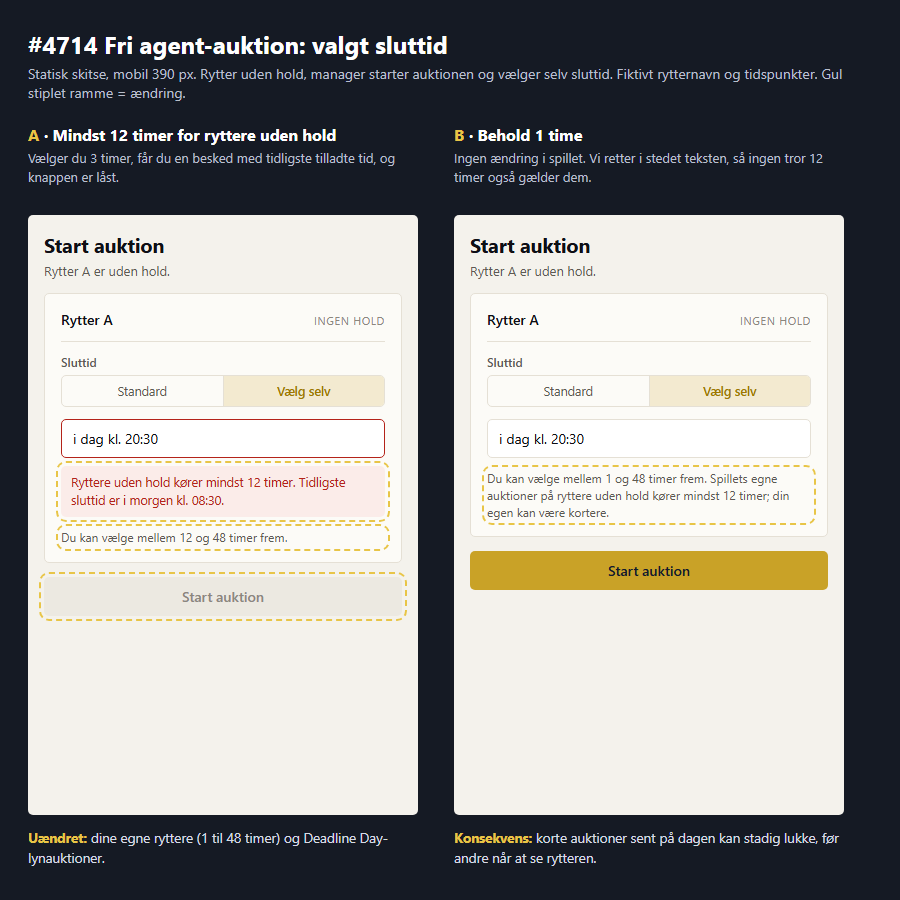
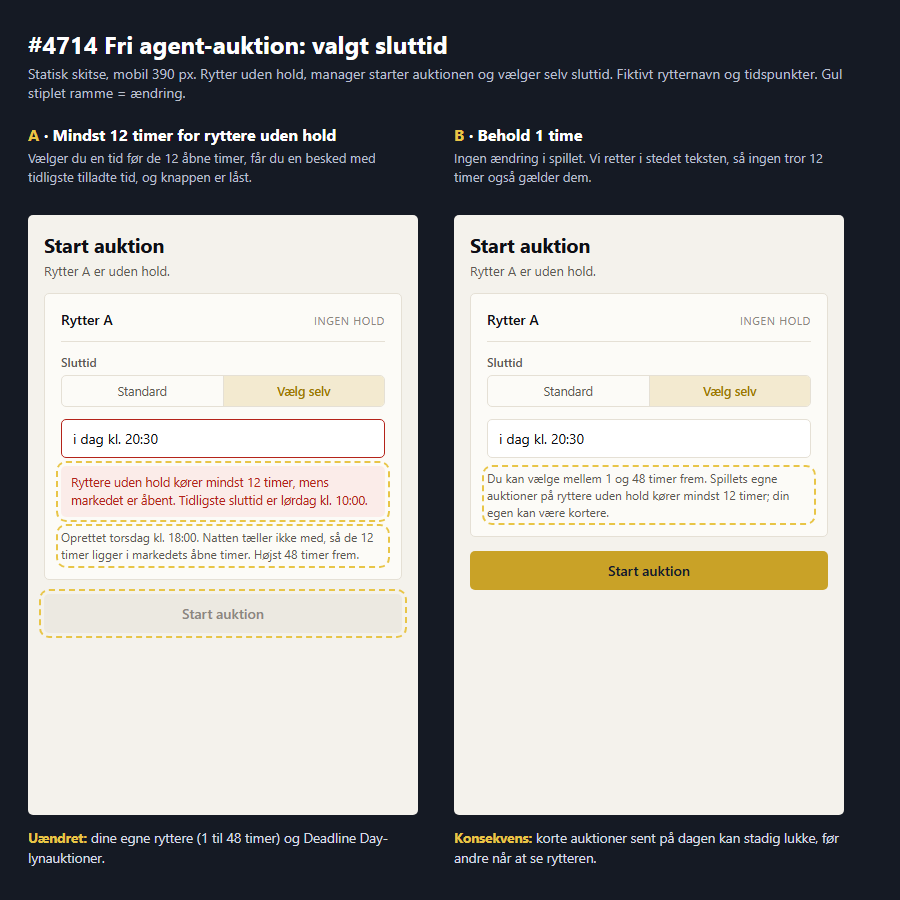
docs(valgkort): 12 timer = aktive markedstimer, isoleret rollback, adgangskode-sti, verifikationsplaner
Codex paa #7072 (P1 + 3x P2).

Refs #4714 #3984

Changed region(s): [[0.0622, 0.5911, 0.4356, 0.7156], [0.0311, 0.1556, 0.4356, 0.2178], [0.0933, 0.5289, 0.4044, 0.56]]

diff --git a/docs/decisions/2026-10-23-3984-4714/mockup-4714-auktion-12t.html b/docs/decisions/2026-10-23-3984-4714/mockup-4714-auktion-12t.html
@@ -39,7 +39,7 @@ h1{font-family:'Inter Tight','Segoe UI',sans-serif;color:#fff;font-size:24px;mar
 <div class="cols">
 
 <div class="col"><h2><span>A</span> · Mindst 12 timer for ryttere uden hold</h2>
-<p class="cap">Vælger du 3 timer, får du en besked med tidligste tilladte tid, og knappen er låst.</p>
+<p class="cap">Vælger du en tid før de 12 åbne timer, får du en besked med tidligste tilladte tid, og knappen er låst.</p>
 <div class="phone">
  <div class="t">Start auktion</div><div class="s">Rytter A er uden hold.</div>
  <div class="card">
@@ -48,9 +48,9 @@ h1{font-family:'Inter Tight','Segoe UI',sans-serif;color:#fff;font-size:24px;mar
    <div class="seg"><div>Standard</div><div class="sel">Vælg selv</div></div>
   </div>
   <div class="f"><div class="in bad">i dag kl. 20:30</div>
-   <div class="err new">Ryttere uden hold kører mindst 12 timer. Tidligste sluttid er i morgen kl. 08:30.</div>
+   <div class="err new">Ryttere uden hold kører mindst 12 timer, mens markedet er åbent. Tidligste sluttid er lørdag kl. 10:00.</div>
   </div>
-  <div class="hint new">Du kan vælge mellem 12 og 48 timer frem.</div>
+  <div class="hint new">Oprettet torsdag kl. 18:00. Natten tæller ikke med, så de 12 timer ligger i markedets åbne timer. Højst 48 timer frem.</div>
  </div>
  <div class="btn off new">Start auktion</div>
 </div>

diff --git a/docs/decisions/2026-10-23-3984-4714/4714-auktion-12t.md b/docs/decisions/2026-10-23-3984-4714/4714-auktion-12t.md
@@ -31,14 +31,17 @@ Hvis afstemningen vinder med et andet tal end 12 (fx 8 eller 24 timer), er bygge
 
 ## Byg-plan A (samme dag)
 
-Ét spor, ingen flag: det er en regel, og den rulles tilbage ved at ændre én konstant.
+Ét spor, ingen flag: det er en regel, og den rulles tilbage ved at ændre én ny konstant.
 
-1. `backend/lib/auctionEngine.js`: `getCustomAuctionEndIssue` får en valgfri `minHours` (standard er `CUSTOM_END_MIN_HOURS`). Ryttere uden hold sender `FREE_AGENT_MIN_DURATION_HOURS`. Svaret `end_too_soon` bærer `minHours`.
-2. `backend/routes/api.js` (opret auktion, omkring valgt `ends_at`): vælg minimum efter `rider.team_id` er tom eller ej. Flash og egne ryttere uændret. `GET /auctions/window` får `min_hours_free_agent`, så skærmen ikke hardkoder tallet.
-3. `frontend/src/lib/auctionEndTime.js` og `useAuctionEndTimeSelector.js` (+ test): minimum pr. rytter, og tidligste tilladte tidspunkt beregnes i markedets åbne vindue. Knappen i `TeamPage.jsx` og `RiderStatsPage.jsx` er låst, indtil tiden er gyldig.
+**Samme 12 timer som spillets egne auktioner: aktive markedstimer, ikke vægur-timer.** Spillets egne free-agent-auktioner (`calculateAuctionEnd(now, cfg, { minHours: FREE_AGENT_MIN_DURATION_HOURS })`) tæller kun timer, mens markedet er åbent; natten tæller ikke. En spillervalgt sluttid måles i dag i vægur-timer (`getCustomAuctionEndIssue`). Hvis minimummet blot blev 12 vægur-timer, kunne en auktion oprettet om aftenen slutte næste morgen efter få åbne timer, altså kortere end spillets egne. Derfor er tidligste gyldige sluttid for en rytter uden hold `calculateAuctionEnd(now, cfg, { minHours })`, præcis som gulvet.
+
+1. `backend/lib/auctionEngine.js`: ny konstant `CUSTOM_END_FREE_AGENT_MIN_ACTIVE_HOURS` (sat til `FREE_AGENT_MIN_DURATION_HOURS`) og en ren `earliestCustomEnd(now, cfg, { freeAgent })`, der for ryttere uden hold returnerer `calculateAuctionEnd(now, cfg, { minHours: CUSTOM_END_FREE_AGENT_MIN_ACTIVE_HOURS })` og ellers `now + CUSTOM_END_MIN_HOURS`. `getCustomAuctionEndIssue` får `{ freeAgent }` og afviser en sluttid før `earliestCustomEnd` med `end_too_soon` + `earliestEnd`. 48-timers-loftet og vindueskravet er uændrede. Rollback: sæt kun den nye konstant ned (eller fjern `freeAgent`-grenen); `FREE_AGENT_MIN_DURATION_HOURS` styrer også ungdomsmarkedet, akademi-graduering og standard-auktioner og må ikke røres.
+2. `backend/routes/api.js` (opret auktion, omkring valgt `ends_at`): `freeAgent` = rytteren har intet hold. Flash og egne ryttere uændret. `GET /auctions/window` får `earliest_end_free_agent` (beregnet af serveren), så skærmen ikke selv regner vinduet ud.
+3. `frontend/src/lib/auctionEndTime.js` og `useAuctionEndTimeSelector.js` (+ test): tidligste tilladte tidspunkt kommer fra serveren for ryttere uden hold; alt før det gråtones. Knappen i `TeamPage.jsx` og `RiderStatsPage.jsx` er låst, indtil tiden er gyldig.
 4. Tekster EN + DA i `frontend/public/locales/{da,en}/errors.json` og auktionsteksterne (hjælpetekst "12 til 48 timer", fejl med tidligste tidspunkt).
-5. Tests: `backend/lib/auctionEngine.test.js` (rytter uden hold under 12 timer afvises, over accepteres; egen rytter 1 time accepteres; flash uændret) og frontend-testen.
-6. Docs: `docs/TRANSFER_MARKET_RULES.md` §2.3 og §14 punkt 1 opdateres i samme PR. Patch note EN + DA og en linje i `help.json` ved close-out.
+5. Tests: `backend/lib/auctionEngine.test.js` med injiceret ur: rytter uden hold med sluttid før `earliestCustomEnd` afvises, på/efter accepteres; oprettet om aftenen tæller natten ikke med (aktive timer); egen rytter 1 time accepteres; flash uændret; `FREE_AGENT_MIN_DURATION_HOURS`-flows uændrede. Frontend-testen dækker gråtoning og låst knap.
+6. Verifikation: TIER TARGETED (backend `node --test` på auktions-filerne, frontend lint + `node --test` + build) + Playwright-snapshot af sluttidsvælgeren i alle tre projekter. **Ejeren ser på preview (Android):** opret en auktion på en rytter uden hold om aftenen og se at tidligste tid ligger efter 12 åbne markedstimer; en egen rytter kan stadig vælge 1 time.
+7. Docs: `docs/TRANSFER_MARKET_RULES.md` §2.3 og §14 punkt 1 opdateres i samme PR. Patch note EN + DA og en linje i `help.json` ved close-out.
 
 Berørte filer: `auctionEngine.js` (+ test), `api.js`, `auctionEndTime.js`, `useAuctionEndTimeSelector.js` (+ test), `TeamPage.jsx`, `RiderStatsPage.jsx`, to `errors.json`, auktions-teksterne, `TRANSFER_MARKET_RULES.md`.
 

diff --git a/docs/decisions/2026-10-23-3984-4714/3984-indstillinger.md b/docs/decisions/2026-10-23-3984-4714/3984-indstillinger.md
@@ -25,7 +25,7 @@ Du vil have ét sted til manager, ét til hold og ét til almindelige indstillin
 
 **A. Tre områder: Manager, Hold, Generelt (+ Beta).** Fanerne omdøbes og sektionerne flyttes, så de matcher dit direktiv. Landevalget bor i Manager (managerens land) og Hold (holdets land).
 
-- Manager: brugernavn, e-mail og adgangskode, managernavn, managerens land, Discord, abonnement.
+- Manager: brugernavn, e-mail, "Skift adgangskode" (et link til den eksisterende `/reset-password`-flow; profilsiden har i dag ingen adgangskode-kontrol), managernavn, managerens land, Discord, abonnement.
 - Hold: holdnavn, holdets land, assistent.
 - Generelt: notifikationer, udseende og sprog, privatliv.
 - Gamle links (`?tab=account`, `?tab=notifications` og ankre som `#discord`) skal blive ved at virke.
@@ -43,10 +43,11 @@ Det er det du bad om, og det er næsten gratis at bygge nu, fordi fanerne og lin
 1. Migration (additiv, ikke destruktiv, apply efter merge jf. #2642): to kolonner på `teams`, `manager_nationality_code` og `team_nationality_code`, begge nullable og med fremmednøgle til `countries(iso2)`. Opdatér `database/schema-snapshot.json`.
 2. Backend: `/api/teams/my` (PUT) tager imod de to felter og validerer mod aktive lande. Test i `backend/`.
 3. `frontend/src/lib/settingsTabs.ts`: nye faner `manager`, `team`, `general`, `beta`; ny `SETTINGS_SECTION_TAB`; en kort tabel der oversætter gamle `?tab=`-værdier til de nye. Opdatér testen.
-4. `frontend/src/pages/ProfilePage.jsx`: flyt kortene mellem `TabPanel`s; to landevælgere (søgbar liste med `Flag`, danske og engelske landenavne via `countryUtils`). Brug kun eksisterende primitiver (`Card`, `Field`, `Tabs`).
+4. `frontend/src/pages/ProfilePage.jsx`: flyt kortene mellem `TabPanel`s; to landevælgere (søgbar liste med `Flag`, danske og engelske landenavne via `countryUtils`); et "Skift adgangskode"-link i Manager-fanen der sender en nulstillingsmail (samme kald som `LoginPage.jsx`'s `resetPasswordForEmail`) og fører til den eksisterende `ResetPasswordPage.jsx`. Ingen ny adgangskode-logik. Brug kun eksisterende primitiver (`Card`, `Field`, `Tabs`).
 5. Tekster: `frontend/public/locales/{da,en}/profile.json` (fanenavne, "Managerens land", "Holdets land").
 6. Ikke med: bestyrelsen læser landet. UI-teksten må ikke love det, før #1239 er bygget.
 7. Patch note EN + DA samt en linje i `help.json`, ved close-out.
+8. Verifikation: TIER FULL (migration + delt side): `scripts/verify-local.ps1`, backend-test af `PUT /api/teams/my` (gyldigt land gemmes, ukendt land afvises, tomt felt nulstiller), `settingsTabs`-testen (gamle `?tab=`-links lander rigtigt), hele `npm run test:e2e` og snapshots i alle tre Playwright-projekter. **Ejeren ser på preview (Android):** de tre faner, at landevalget gemmes og vises med flag, at "Skift adgangskode" sender mailen, og at et gammelt link som `/profile?tab=notifications` stadig åbner det rigtige sted.
 
 Berørte filer: én migrationsfil, `backend/routes/api.js`, `settingsTabs.ts` (+ test), `ProfilePage.jsx`, to `profile.json`, schema-snapshot.
 

diff --git a/docs/decisions/2026-10-23-3984-4714/README.md b/docs/decisions/2026-10-23-3984-4714/README.md
@@ -1,6 +1,6 @@
 # Valgkort 23/10 2026: #3984 og #4714
 
-To beslutninger med de ældste løfter. Hver har ét problem, to muligheder (A/B), en anbefaling, en mobil-mockup og en byg-plan, så den kan bygges samme dag du vælger.
+To beslutninger med de ældste løfter. Hver har ét problem, to muligheder (A/B), en anbefaling, en mobil-mockup, en byg-plan og en verifikationsplan (tier + hvad du ser på preview), så den kan bygges samme dag du vælger.
 
 | Kort | Løfte | Anbefaling | Mockup |
 |---|---|---|---|
